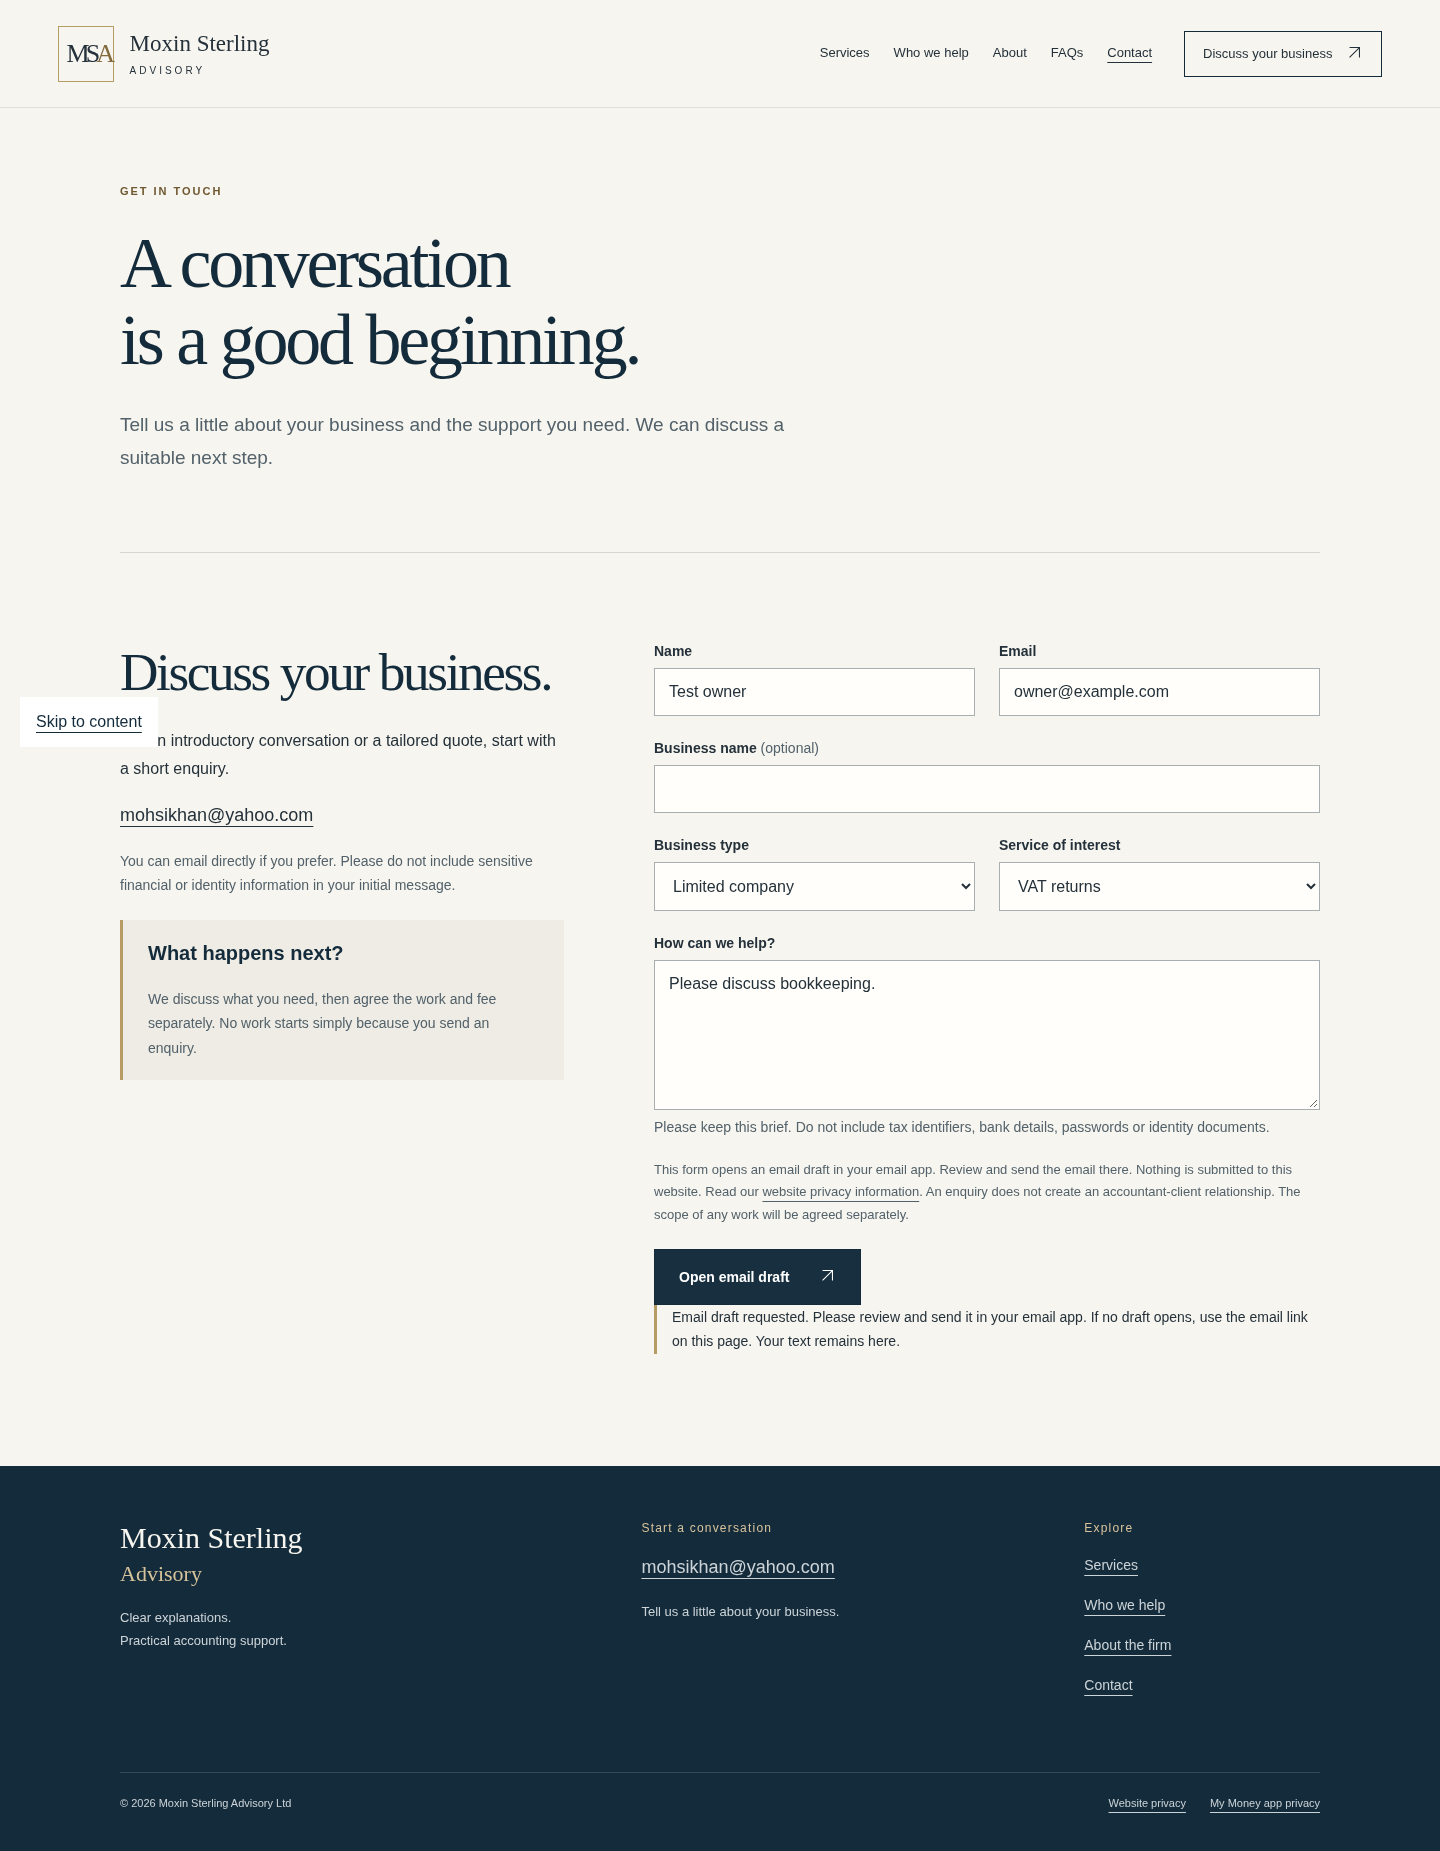
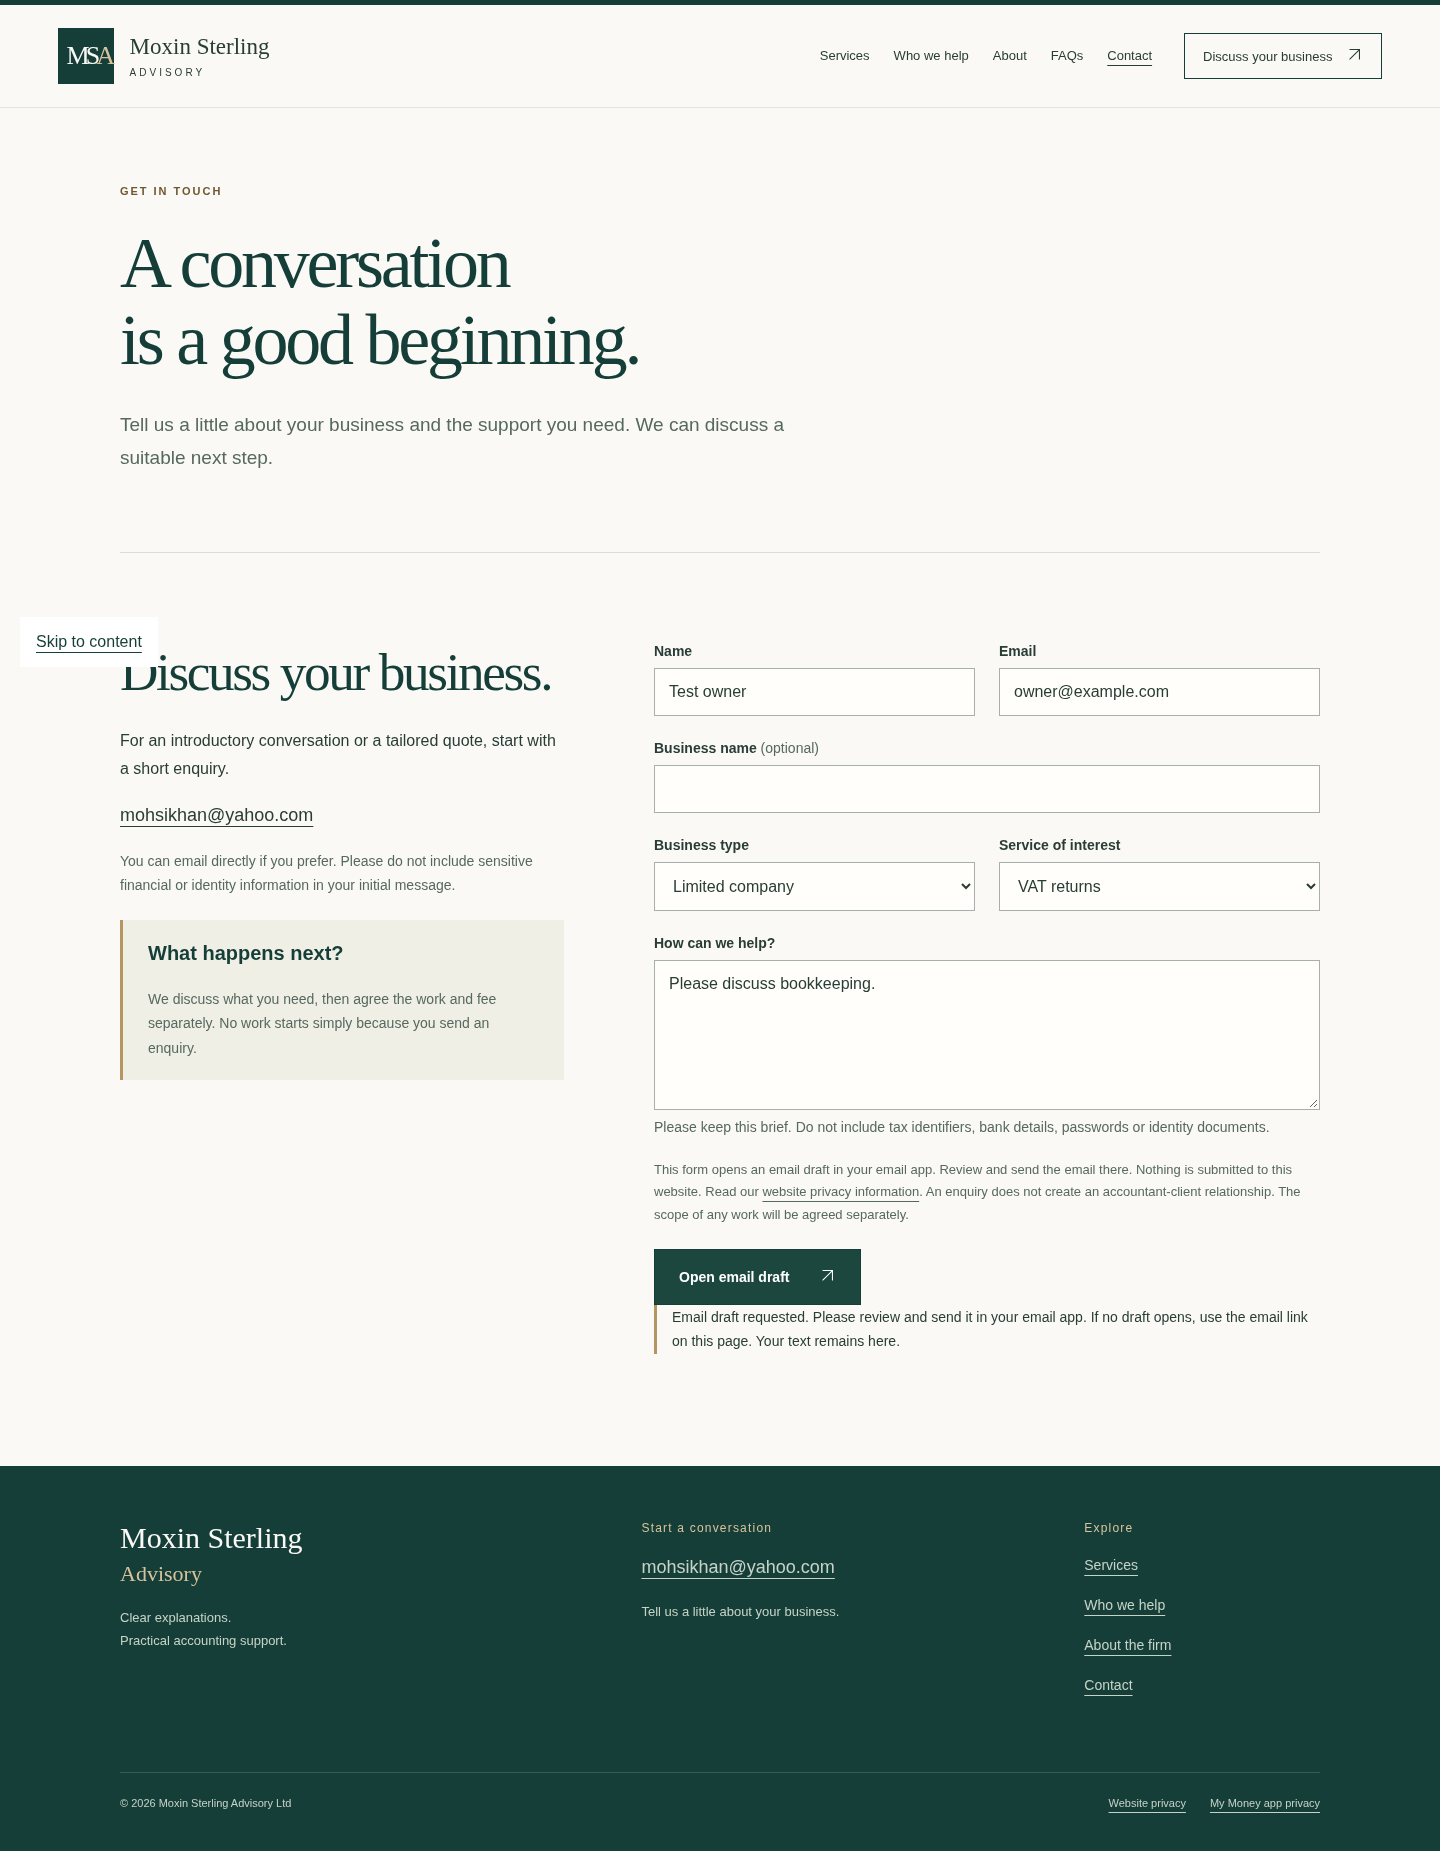
Refine accountancy website with forest green identity and professional headings

Changed region(s): [[0.5625, 0.0, 0.9688, 0.0308], [0.0312, 0.0, 0.1875, 0.0616], [0.0312, 0.3387, 0.0938, 0.4003]]

diff --git a/src/styles/global.css b/src/styles/global.css
@@ -1,10 +1,10 @@
 :root {
-  --navy: #142b3b;
-  --ivory: #f7f5ef;
-  --brass: #b79b64;
-  --text: #24313a;
-  --border: #e3e6e5;
-  --muted: #52616a;
+  --navy: #153e38;
+  --ivory: #faf9f5;
+  --brass: #b59560;
+  --text: #293d36;
+  --border: #e0e5dc;
+  --muted: #57695e;
   font-family: Arial, Helvetica, sans-serif;
   color: var(--text);
   background: var(--ivory);
@@ -96,7 +96,7 @@ svg {
   align-items: center;
   justify-content: space-between;
   gap: 32px;
-  border-bottom: 1px solid #142b3b1a;
+  border-bottom: 1px solid #153e381a;
   background: var(--ivory);
 }
 .brand {
@@ -204,7 +204,7 @@ svg {
   border: 1px solid var(--navy);
 }
 .button:hover {
-  background: #29495e;
+  background: #285b4e;
 }
 .button.secondary {
   background: transparent;
@@ -260,7 +260,7 @@ svg {
   letter-spacing: 0.15em;
 }
 .intro-strip {
-  border-block: 1px solid #142b3b26;
+  border-block: 1px solid #153e3826;
   display: flex;
   justify-content: space-between;
   padding: 23px 0;
@@ -290,7 +290,7 @@ svg {
   max-width: 530px;
 }
 .service-list {
-  border-top: 1px solid #142b3b33;
+  border-top: 1px solid #153e3833;
   display: grid;
   grid-template-columns: 1fr 1fr;
   column-gap: 60px;
@@ -299,7 +299,7 @@ svg {
   display: grid;
   grid-template-columns: 32px 1fr 25px;
   gap: 16px;
-  border-bottom: 1px solid #142b3b26;
+  border-bottom: 1px solid #153e3826;
   padding: 27px 0;
   text-decoration: none;
 }
@@ -328,7 +328,7 @@ svg {
 }
 .dark {
   background: var(--navy);
-  color: #e3e6e5;
+  color: #e0e5dc;
 }
 .dark h2,
 .dark h3 {
@@ -354,7 +354,7 @@ svg {
 }
 .audience-grid p {
   font-size: 14px;
-  color: #c2cbd0;
+  color: #c6d3c7;
 }
 .dark a {
   color: #eee5d4;
@@ -370,7 +370,7 @@ svg {
 }
 .step {
   padding: 20px 0 22px;
-  border-bottom: 1px solid #142b3b26;
+  border-bottom: 1px solid #153e3826;
   display: grid;
   grid-template-columns: 42px 1fr;
   gap: 16px;
@@ -391,7 +391,7 @@ svg {
   color: var(--muted);
 }
 .founder-panel {
-  background: #e9e7df;
+  background: #e3e7da;
   padding: 50px;
   min-height: 400px;
   display: flex;
@@ -405,7 +405,7 @@ svg {
     110px Georgia,
     serif;
   letter-spacing: -0.08em;
-  color: #142b3b;
+  color: #153e38;
   line-height: 1;
 }
 .founder-panel p {
@@ -429,7 +429,7 @@ svg {
   color: var(--muted);
 }
 .approach {
-  background: #eeece4;
+  background: #efefe6;
 }
 .commitments {
   display: grid;
@@ -437,7 +437,7 @@ svg {
   gap: 40px;
 }
 .commitments article {
-  border-left: 1px solid #b79b64;
+  border-left: 1px solid #b59560;
   padding-left: 24px;
 }
 .commitments p {
@@ -446,10 +446,10 @@ svg {
   margin: 0;
 }
 .faq-list {
-  border-top: 1px solid #142b3b33;
+  border-top: 1px solid #153e3833;
 }
 details {
-  border-bottom: 1px solid #142b3b26;
+  border-bottom: 1px solid #153e3826;
   padding: 0;
 }
 summary {
@@ -482,7 +482,7 @@ details p {
   max-width: 700px;
 }
 .invitation {
-  border-top: 1px solid #142b3b26;
+  border-top: 1px solid #153e3826;
   padding-block: 65px;
   display: flex;
   align-items: center;
@@ -500,7 +500,7 @@ details p {
 }
 .footer {
   background: var(--navy);
-  color: #ccd4d8;
+  color: #c6d3c7;
   padding-top: 55px;
 }
 .footer-top {
@@ -561,7 +561,7 @@ details p {
 }
 .page-hero {
   padding-block: 75px 55px;
-  border-bottom: 1px solid #142b3b26;
+  border-bottom: 1px solid #153e3826;
 }
 .page-hero h1 {
   max-width: 950px;
@@ -599,7 +599,7 @@ details p {
 }
 .quote-box {
   padding: 35px;
-  background: #eeece4;
+  background: #efefe6;
   border-top: 2px solid var(--brass);
 }
 .quote-box h2 {
@@ -613,7 +613,7 @@ details p {
   grid-template-columns: 1fr 1.5fr;
   gap: 60px;
   padding-block: 40px;
-  border-bottom: 1px solid #142b3b26;
+  border-bottom: 1px solid #153e3826;
 }
 .business-row h2 {
   font-size: 35px;
@@ -702,7 +702,7 @@ button.button {
 .notice {
   padding: 20px 25px;
   border-left: 3px solid var(--brass);
-  background: #eeece4;
+  background: #efefe6;
 }
 .inline-links {
   display: flex;
@@ -767,7 +767,7 @@ button.button {
     gap: 12px;
     align-items: center;
     background: transparent;
-    border: 1px solid #142b3b55;
+    border: 1px solid #153e3855;
     min-height: 44px;
     padding: 8px 12px;
     color: var(--navy);
@@ -958,5 +958,25 @@ button.button {
 }
 /* Keep supporting copy legible when a shared section header sits on navy. */
 .dark .section-head p:not(.eyebrow) {
-  color: #c2cbd0;
+  color: #c6d3c7;
 }
+
+/* Professional accountancy identity: forest green, ivory and brushed gold. */
+.header { border-top: 5px solid var(--navy); }
+.monogram { background: var(--navy); color: var(--ivory); border-color: var(--navy); }
+.monogram span { color: #d7c39b; }
+.hero h1 em { color: #607453; font-weight: 400; }
+.hero-note { margin: 26px 0 0; font-size: 12px; color: var(--muted); letter-spacing: .03em; }
+.hero-art { background: linear-gradient(145deg, #234e42, #102f2a); border-bottom: 4px solid var(--brass); }
+.hero-art svg { opacity: .65; }
+.art-caption { font-size: 38px; max-width: 290px; text-shadow: 0 2px 18px #102f2a; }
+.intro-strip { background: #eeefe7; padding: 25px; }
+.service-list { gap: 20px; border: 0; }
+.service-item { padding: 28px; border: 1px solid #d7dfd2; background: #fdfcf9; }
+.service-item:hover { background: #eef1e7; border-color: #a5b49b; }
+.service-item h3 { font-size: 23px; }
+.service-item .num { color: #77613b; }
+.founder-panel { border-top: 3px solid var(--brass); background: linear-gradient(135deg, #e5e8db, #d5dfcf); }
+.founder-initials { color: var(--navy); }
+.invitation { background: #eeefe7; padding: 50px; margin-bottom: 65px; border-top: 2px solid var(--brass); }
+@media (max-width:760px) { .service-item { padding: 22px 18px; gap: 10px; } .intro-strip { padding: 20px; } .invitation { padding: 30px 24px; margin-bottom: 40px; } }

diff --git a/docs/DESIGN-UPDATE.md b/docs/DESIGN-UPDATE.md
@@ -1,0 +1,13 @@
+# Professional accountancy design update
+
+The existing Astro website now uses forest green, warm ivory and muted gold, updated homepage headings, framed service cards and a more prominent contact invitation. Shared colours apply across existing pages; existing contact details, enquiry behaviour and routes are preserved.
+
+Validated on 1 November 2026:
+
+- `ASTRO_TELEMETRY_DISABLED=1 npm run check`: no errors, warnings or hints.
+- `npm test`: existing enquiry test passed.
+- `ASTRO_TELEMETRY_DISABLED=1 npm run build`: all 14 pages built.
+- `python3 scripts/browser-check.py`: 13 normal pages at 375, 768 and 1440 pixels, no overflow or page errors; navigation, keyboard FAQ, email draft, mocked contact adapter, internal links and no-JavaScript fallback passed.
+- Refreshed screenshots in `docs/screenshots/`; mobile homepage visually inspected.
+
+This records local validation, not a production deployment. The `gh-pages` branch contains published output with a CNAME for moxinadvisory.com. The source repository's deploy workflow is manual and requires the source on main. Review the existing deployment settings before publishing. Direct domain verification and GitHub API requests are currently blocked by the environment network policy.
